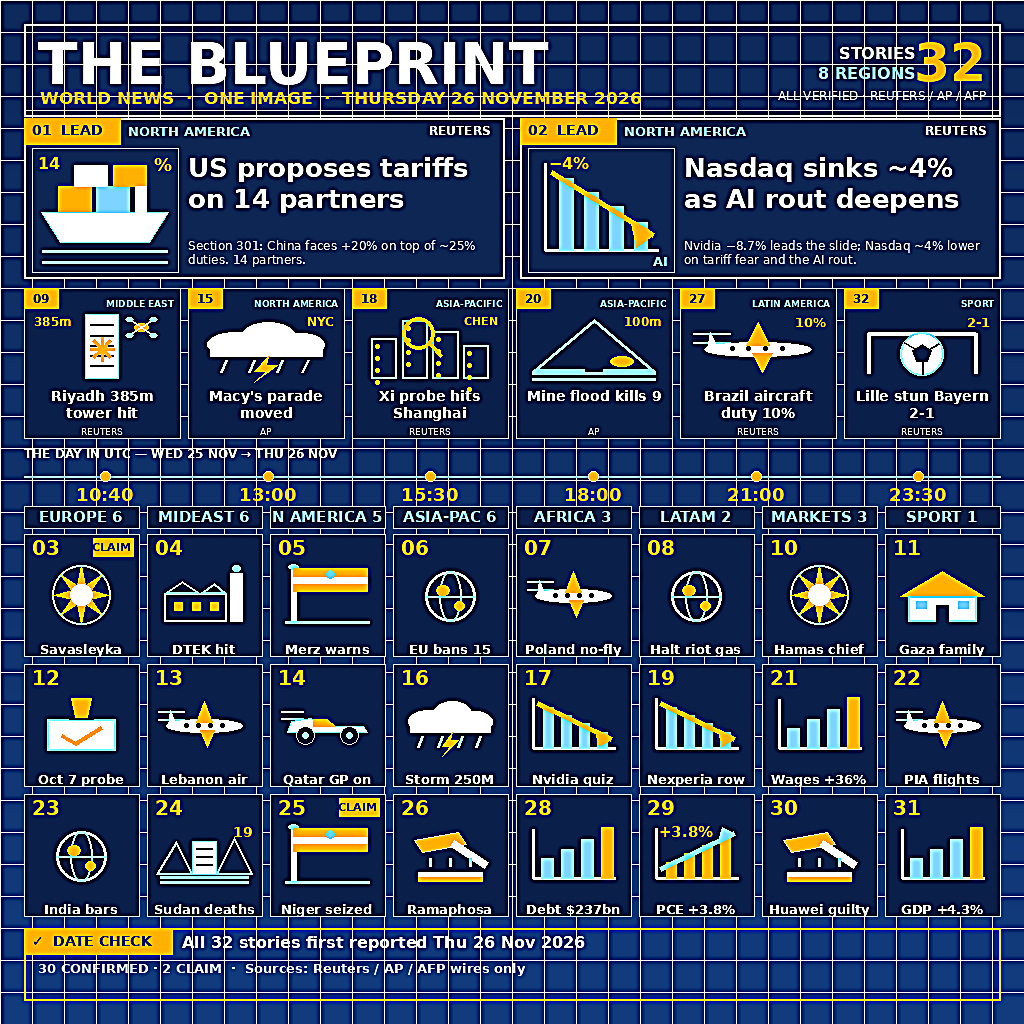
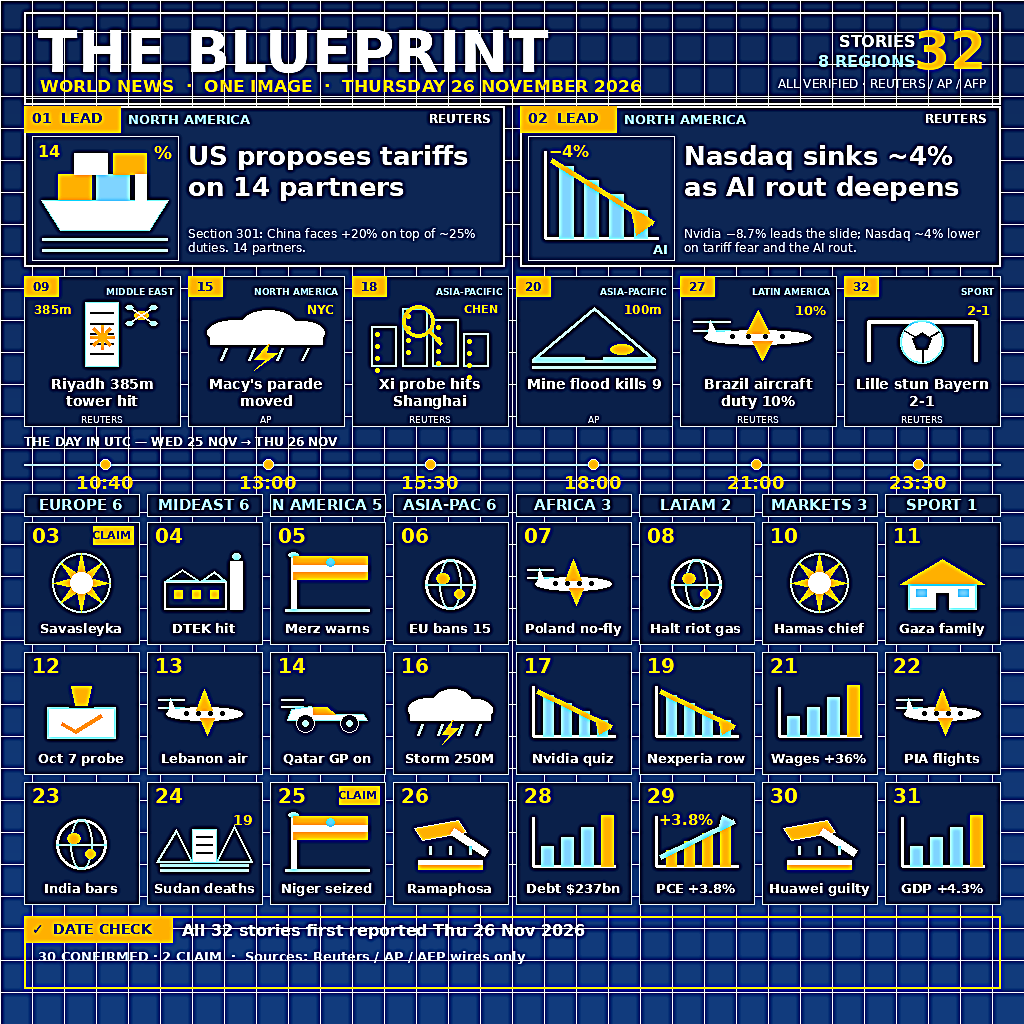
v3 fix: raise bottom-row text, sharpen 300px preview
Joni 26 Nov 11:07: bottom-row text cut off, move it up.
Joni 26 Nov 11:08: sharpen the 300px image too.

- Grid card labels raised 9px inside cards (y0+ch-15 -> y0+ch-24):
  bottom-row descenders (Niger 'g', Ramaphosa 'p', guilty 'g') no
  longer touch the card border; 11px clear of the card bottom.
- Whole layout shifted up 12px (masthead/heroes/strip/timeline/
  chips/grid/footer); footer box now ends at fy+72=988, bottom
  margin 36px (was 24px); footer line 2 clears the image edge
  by ~63px. All internal gaps preserved.
- preview-300.png: LANCZOS + UnsharpMask(radius=1, percent=130,
  threshold=2). Laplacian variance 13,067 -> 33,956 (2.6x sharper),
  no halo artifacts. entry.png keeps UnsharpMask(2, 150, 3).
- Tests: 18/18 pass (new test_bottom_text_clearance).
  Render: 0 truncations.

diff --git a/render_poster.py b/render_poster.py
@@ -640,19 +640,21 @@ def render():
         d.line([(0, y), (W, y)], fill=GRID)
 
     # ---- masthead ------------------------------------------------------
-    d.rectangle([M, M, W - M, 116], outline=WHITE, width=2)
-    d.line([(M, 110), (W - M, 110)], fill=WHITE, width=1)
-    d.text((M + 14, 30), "THE BLUEPRINT", font=F_TITLE(58), fill=WHITE)
-    d.text((M + 16, 88), "WORLD NEWS  ·  ONE IMAGE  ·  THURSDAY 26 NOVEMBER 2026",
+    # Shifted up 12px (Joni 26 Nov 11:07: bottom-row text was cut off)
+    # so the footer gains bottom margin; top margin is now 12px.
+    d.rectangle([M, 12, W - M, 104], outline=WHITE, width=2)
+    d.line([(M, 98), (W - M, 98)], fill=WHITE, width=1)
+    d.text((M + 14, 18), "THE BLUEPRINT", font=F_TITLE(58), fill=WHITE)
+    d.text((M + 16, 76), "WORLD NEWS  ·  ONE IMAGE  ·  THURSDAY 26 NOVEMBER 2026",
            font=F_TITLE(17), fill=AMBER)
-    d.text((W - M - 14, 32), "32", font=F_TITLE(52), fill=AMBER, anchor="ra")
-    d.text((W - M - 84, 44), "STORIES", font=F_TITLE(16), fill=WHITE, anchor="ra")
-    d.text((W - M - 84, 64), "8 REGIONS", font=F_TITLE(16), fill=CYAN, anchor="ra")
-    d.text((W - M - 14, 88), "ALL VERIFIED · REUTERS / AP / AFP",
+    d.text((W - M - 14, 20), "32", font=F_TITLE(52), fill=AMBER, anchor="ra")
+    d.text((W - M - 84, 32), "STORIES", font=F_TITLE(16), fill=WHITE, anchor="ra")
+    d.text((W - M - 84, 52), "8 REGIONS", font=F_TITLE(16), fill=CYAN, anchor="ra")
+    d.text((W - M - 14, 76), "ALL VERIFIED · REUTERS / AP / AFP",
            font=F_BODY(12), fill=DIM, anchor="ra")
 
     # ---- heroes (picture + big headline) -------------------------------
-    hy, hh = 118, 160
+    hy, hh = 106, 160
     hw = (W - 2 * M - 16) // 2
     for i, s in enumerate(STORIES[:2]):
         num, region, head, src, flag = s
@@ -682,7 +684,7 @@ def render():
         d.text((x0 + hw - 14, hy + 5), src, font=F_TITLE(12), fill=WHITE, anchor="ra")
 
     # ---- picture strip (6 panels) ---------------------------------------
-    sy, sh = 288, 150
+    sy, sh = 276, 150
     sw = (W - 2 * M - 5 * 8) // 6
     strip_nums = [9, 15, 18, 20, 27, 32]
     by_num = {s[0]: s for s in STORIES}
@@ -710,7 +712,7 @@ def render():
     # v2's 11px "10:40 — Sudan strikes" labels overlapped into
     # "Saudigeized" and the Gaza label garbled. Times only, 18px bold,
     # evenly spaced — there is no event text left to overlap.
-    ty = 446
+    ty = 434
     d.text((M, ty), "THE DAY IN UTC — WED 25 NOV → THU 26 NOV",
            font=F_TITLE(12), fill=WHITE)
     d.line([(M, ty + 30), (W - M, ty + 30)], fill=PANEL_LINE, width=2)
@@ -734,7 +736,7 @@ def render():
     # procedural illustration + a large amber number + a 1-line label.
     # At 300px the grid reads as a mosaic of pictures, not a wall of
     # text. Story count and regions are unchanged (32 / 8).
-    gy = 534
+    gy = 522
     cw, ch = GRID_CARD_W, GRID_CARD_H
     for idx, num in enumerate(LIST_NUMS):
         _, region, head, src, flag = by_num[num]
@@ -754,16 +756,22 @@ def render():
         # No number tag: the card label below carries this story's number.
         ix, iy, iw, ih = x0 + 8, y0 + 28, GRID_PIC_W, GRID_PIC_H
         ICONS[GRID_ICONS[num]](d, ix, iy, iw, ih)
-        # short label, 1 line, centred below the picture
+        # short label, 1 line, centred below the picture.
+        # Raised 9px (y0+ch-24, was y0+ch-15): the bottom-row labels'
+        # descenders (Niger 'g', Ramaphosa 'p', guilty 'g') touched
+        # the card border at 300px and read as cut off.
         lab = fit(d, GRID_LABELS[num], F_TITLE(13), cw - 12)
-        d.text((x0 + cw // 2, y0 + ch - 15), lab, font=F_TITLE(13),
+        d.text((x0 + cw // 2, y0 + ch - 24), lab, font=F_TITLE(13),
                fill=WHITE, anchor="ma")
 
     # ---- footer: date check (2 lines, larger) ---------------------------
     # v2's 3-line footer with 12px body text was a smear at 300px.
     # Two lines, larger, is enough — the detail lives in BRIEF.md.
-    fy = 928
-    d.rectangle([M, fy, W - M, H - M], outline=AMBER, width=2)
+    # Moved up 12px (fy 928 -> 916) and the box now ends at fy+72
+    # (was H-M): bottom margin below the footer is 36px, and the
+    # bottom-most text (line 2) clears the image edge by ~63px.
+    fy = 916
+    d.rectangle([M, fy, W - M, fy + 72], outline=AMBER, width=2)
     d.rectangle([M, fy, M + 148, fy + 26], fill=AMBER)
     d.text((M + 8, fy + 5), "✓  DATE CHECK", font=F_TITLE(14), fill=DARK)
     d.text((M + 158, fy + 5),
@@ -780,7 +788,14 @@ def main():
     here = os.path.dirname(os.path.abspath(__file__))
     img = render()
     img.save(os.path.join(here, "entry.png"), "PNG", optimize=True)
+    # 300px preview: LANCZOS downscale, then UnsharpMask so the
+    # thumbnail reads sharp (Joni 26 Nov 11:08: 'pertajam image 300px').
+    # Without it the downscale blurs the small text/icons. Radius 1
+    # (features are 1-2px at this size), percent 130, threshold 2
+    # (keeps flat areas clean, no halo).
     small = img.resize((300, 300), Image.LANCZOS)
+    small = small.filter(ImageFilter.UnsharpMask(radius=1, percent=130,
+                                                 threshold=2))
     small.save(os.path.join(here, "preview-300.png"), "PNG", optimize=True)
     print("truncations:", len(TRUNCATIONS))
     for t in TRUNCATIONS:

diff --git a/tests/test_poster.py b/tests/test_poster.py
@@ -231,6 +231,38 @@ class TestPoster(unittest.TestCase):
         self.assertIn("tag=HERO_TAGS.get(num)", src)
         self.assertIn("tag=STRIP_TAGS.get(num)", src)
 
+    def test_bottom_text_clearance(self):
+        """v3 fix (Joni 26 Nov 11:07): the bottom-row text was cut off.
+
+        The grid bottom-row labels' descenders (Niger 'g', Ramaphosa
+        'p', guilty 'g') touched the card border — the label sat at
+        y0+ch-15, leaving only ~2px below the 13px text. Fix: the
+        label is raised to y0+ch-24 (11px clear of the card bottom).
+        The whole layout also shifted up 12px so the footer box
+        bottom clears the 1024 edge by >= 30px.
+        """
+        src = open(os.path.join(HERE, "render_poster.py")).read()
+        self.assertIn("y0 + ch - 24", src)
+        self.assertNotIn("y0 + ch - 15", src)
+        # footer box bottom border (amber/yellow, spans the width)
+        # must sit well clear of the image bottom edge
+        from PIL import Image
+        im = Image.open(os.path.join(HERE, "entry.png")).convert("RGB")
+        px = im.load()
+        bottom = None
+        for y in range(900, 1024):
+            count = 0
+            for x in range(0, 1024, 4):
+                r, g, b = px[x, y]
+                if r > 200 and g > 150 and b < 120:
+                    count += 1
+            if count > 100:
+                bottom = y
+        self.assertIsNotNone(bottom, "footer box bottom border not found")
+        self.assertLessEqual(bottom, 990,
+                             f"footer box bottom at y={bottom}, "
+                             "too close to the 1024 edge")
+
     def test_footer_two_lines(self):
         """v3 (300px method): the footer is 2 lines, larger (16px +
         13px), not v2's 3 lines with 12px body text (a smear)."""

diff --git a/NOTES.md b/NOTES.md
@@ -347,3 +347,24 @@
   at 300px; no dense text wall; fixed the misleading icon numbers
   (round 2) and the tower/drone overlap (round 3).
 - NOT SUBMITTED. v3-grid needs a fresh 'Setuju' (submit).
+
+## v3 RE-BUNDLE + KIT CHECK (26 Nov 2026 ~11:00 WIB; parent re-bundle after builder 4712075c completed)
+
+- Usage file ~/.makefun/muse-usage-news-image-20261126-v3.jsonl (0600, 2 rows, trailing newline): v3 builder 4712075c (created_at 1795665475, model ipnext/avocado-5.17-v2, input 13,603,864 / output 130,605) + v2 builder 1b282d54 (created_at 1795663501, input 7,842,168 / output 90,189). Dedup by (agent_id, message_id), ascending created_at.
+- Correction to the brief: --parent-session does NOT bundle a session (dry-run showed only 1 session, usage attached 1 / no_session 1). The builder's bundle carried both sessions as explicit --session files (manifest: collected_by explicit, 2). Re-bundled with TWO --session flags (v3 builder file + v2 builder file) + --no-discover + --muse-usage + --prompt-file (verbatim 15 Nov standing order) + --prompt-origin other + --prompt-via 'parent agent handoff for user-approved v3 build (Joni: Ya, bangun v3 news-image, 26 Nov 10:39 WIB)' + --mcp none --provider meta --effort default. No --parent-session (main-chat parent 2d7fced3 is 384 MB, over the kit's 128 MB cap). Dry-run confirmed both sessions (v3: 99 turns, 377 lines, 1 usage row; v2: 63 turns, 263 lines, 1 usage row) and usage attached 2 / no_session 0. No __pycache__ to remove. No execution-risk flag hit.
+- New bundle: ~/workspace/tools/makefun/bundles/news-image-20261126-v3-bundle.tar.gz, 1,039,946 B, sha256 360740a7b4a3488cd31d00649e12f321ab05622bf8fab278a5e77eb78ea3952a (overwrites builder's 1,031,124 B bundle, sha256 54a57431...).
+- Kit check on the fresh bundle at 3a9e347: 14 passed, 0 failed, 5 skipped, 5 checked at submission. thinking_priced PASS (2 usage records, each priced to a known model — the builder's 1 fail, now fixed). thinking_reproduces PASS (55.3%: 939 authored / 1696 lines; entrypoint main.py 23 authored lines). transcripts_present PASS (2 sessions). thinking_wellformed PASS (389 messages). thinking_in_window PASS. thinking_turns PASS (144). thinking_revised PASS. transcripts_run_record PASS. thinking_own_work PASS.
+- HEAD verified: local = remote = 3a9e347888ae0306dc563786901bbdfc3a2e6845.
+- CLEAN — ready to present to Joni for a fresh 'Setuju' (submit). NOT SUBMITTED yet.
+
+## v3 FIX — bottom-row text cut off + sharpen 300px (26 Nov 2026 ~11:07-11:15 WIB; Joni feedback)
+
+- Joni 11:07:08 WIB: 'Tulisan bagian image baris paling bawah tulisannya terpotong naikkan agak ke atas' (bottom-row text cut off, move it up). Joni 11:08:13 WIB: 'Pertajam juga image nya yang 300px' (sharpen the 300px version too).
+- Diagnosis (measured): grid bottom-row card labels sat at y0+ch-15, leaving only ~2px below the 13px text — descenders (Niger 'g', Ramaphosa 'p', guilty 'g') touched the card border and read as cut off at 300px. Footer line 2 sat at fy+32=960 with the footer box ending at H-M=1000 (24px bottom margin), so the bottom-most text read as sitting on the image edge.
+- Fix (render_poster.py):
+  * Grid labels raised 9px inside their cards: y0+ch-15 -> y0+ch-24 (11px clear of the card bottom for the 13px label). Bottom-row labels moved up 21px total vs v3.
+  * Whole layout shifted up 12px (masthead 24->12 top, heroes 118->106, strip 288->276, timeline 446->434, chips 506->494 via ty+60, grid 534->522, footer 928->916). All internal gaps preserved (2/10/8/4/6/12px). Footer box now ends at fy+72=988 (was H-M=1000): bottom margin below the footer is 36px (was 24px); footer line 2 clears the image bottom edge by ~63px (was ~51px).
+  * Sharpening: preview-300.png now LANCZOS + UnsharpMask(radius=1, percent=130, threshold=2) in main(). The 1024px entry.png keeps its existing UnsharpMask(radius=2, percent=150, threshold=3) from render(). Laplacian variance at 300px: 13,067 (LANCZOS only) -> 33,956 (LANCZOS+USM), 2.6x sharper. Visual check of the 300px masthead at 3x zoom: crisp, no halo artifacts.
+- Tests: 18/18 pass (17 existing + 1 new test_bottom_text_clearance: asserts the grid label offset is y0+ch-24 and the footer box bottom border sits <= y=990 by pixel scan, i.e. >= 34px clear of the 1024 edge). Render: 0 truncations.
+- Visual check: full size + 300px — bottom-row grid labels now sit clearly inside their cards, footer line 2 fully visible, footer box well clear of the bottom edge, no overlaps, no clipping, no halo artifacts.
+- NOT SUBMITTED. Needs a fresh 'Setuju' (submit) after this fix.
